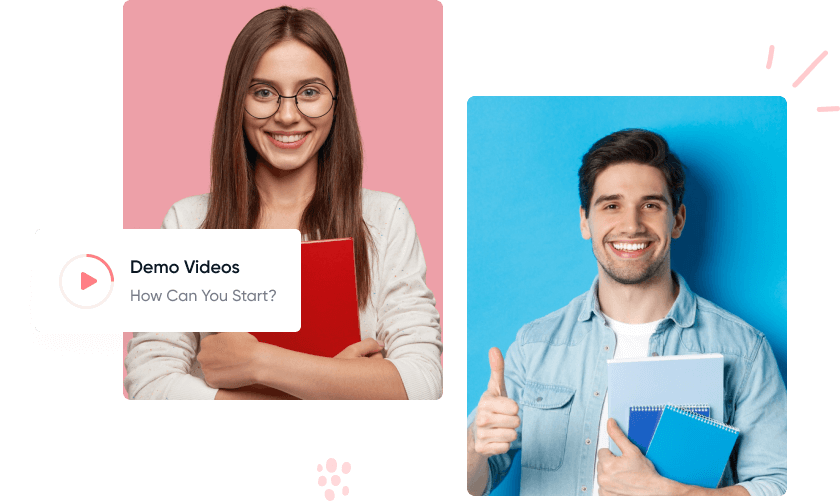
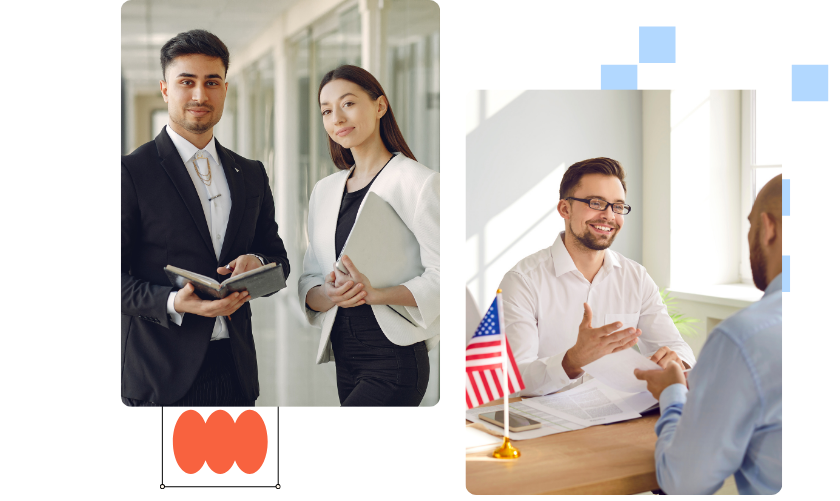
complete

diff --git a/quoc_te_hoc/index.html b/quoc_te_hoc/index.html
@@ -22,7 +22,7 @@
     <link rel="stylesheet" href="assets/css/responsive.css">
     <link rel="stylesheet" href="assets/css/aos.css">
 
-    <title>Cử nhân nghành Quốc tế học</title>
+    <title>Cử nhân ngành Quốc tế học</title>
     <link rel="icon" type="image/png" href="assets/img/all-img/favicon.png">
 </head>
 
@@ -54,7 +54,7 @@
                         </ul>
                     </div>
                     <div class="nav-btn">
-                        <a href="#" class="default-btn">Đăng ký ngay</a>
+                        <a href="#nhan_tu_van" class="default-btn">Đăng ký ngay</a>
                     </div>
                 </nav>
             </div>
@@ -74,7 +74,7 @@
                             duy phát hiện vấn đề; </p>
                         <div>
                             <ul>
-                                <li>Mã nghành: 7310601</li>
+                                <li>Mã ngành: 7310601</li>
                                 <li>Mã trường: DTQ</li>
                                 <li>Tổ hợp xét tuyển: A00, A01, D10, D01</li>
                                 <li>Ngôn ngữ giảng dạy: Tiếng Anh, Tiếng Trung, Tiếng Hàn</li>
@@ -93,7 +93,7 @@
                 </div>
                 <div class="col-lg-6 col-md-12" data-aos="fade-left">
                     <div class="edu-banner-image">
-                        <img src="assets/img/banner/man1.png" alt="banner-img">
+                        <img src="assets/img/banner/man4.png" alt="banner-img">
                     </div>
                 </div>
             </div>
@@ -101,12 +101,17 @@
     </div>
     <!-- End EduMim Banner Area -->
     <!-- Start EduMim platfroom Area -->
-    <div class="edu-platfrom-area pt-130" id="vi_tri_viec_lam">
+    <div class="edu-platfrom-area pt-130" id="nhan_tu_van">
         <div class="container">
             <div class="row align-items-center">
+                <div class="col-lg-7 col-md-12 col-sm-12">
+                    <div class="edu-platfrom-image">
+                        <img src="assets/img/all-img/banner2.png" alt="banner-img">
+                    </div>
+                </div>
                 <div class="col-lg-5 col-md-12 col-sm-12">
                     <div class="edu-platfrom-content" data-aos="fade-up" data-aos-anchor-placement="top-center">
-                        <p class="sub-title">Cử nhân nghành Quốc tế Học</p>
+                        <p class="sub-title">Cử nhân ngành Quốc tế Học</p>
                         <h2> <span class="shape02">Nhận tư vấn</span> Ngay </h2>
                         <p>Điền thông tin của bạn vào form dưới đây để nhận được tư vấn:
                         </p>
@@ -131,62 +136,7 @@
                         <!-- <a href="#" class="default-btn">Explore Our Courses</a> -->
                     </div>
                 </div>
-                <div class="col-lg-7 col-md-12 col-sm-12">
-                    <div class="edu-platfrom-image">
-                        <img src="assets/img/all-img/about2.png" alt="banner-img">
-                    </div>
-                </div>
-            </div>
-        </div>
-    </div>
-    <div class="edu-platfrom-area pt-130" id="vi_tri_viec_lam">
-        <div class="container">
-            <div class="row align-items-center">
-                <div class="col-lg-5 col-md-12 col-sm-12">
-                    <div class="edu-platfrom-content" data-aos="fade-up" data-aos-anchor-placement="top-center">
-                        <p class="sub-title">Cử nhân nghành Quốc tế Học</p>
-                        <h2> Vị trí <span class="shape02">Công việc</span> Là gì ? </h2>
-                        <p>Sau khi tốt nghiệp, sinh viên có thể thực hiện các công việc như:
-                        </p>
-                        <div class="platfrom-list">
-                            <div class="items">
-                                <div class="edu-platfrom-img">
-                                    <img src="assets/img/svg/ok.svg" alt="banner-img">
-                                </div>
-                                <div class="platfrom-single-content">
-                                    <h3>Nghiên cứu và giảng dạy về các vấn đề quốc tế tại các trường đại học, các viện
-                                        nghiên cứu;</h3>
-                                </div>
-                            </div>
-                            <div class="items">
-                                <div class="edu-platfrom-img">
-                                    <img src="assets/img/svg/ok.svg" alt="banner-img">
-                                </div>
-                                <div class="platfrom-single-content">
-                                    <h3>Làm công tác đối ngoại tại các cơ quan ngoại giao ở trung ương và địa phương,
-                                        các vụ hợp tác quốc tế thuộc các bộ, ban, ngành, đoàn thể, các cơ quan an ninh,
-                                        quốc phòng, các cơ quan truyền thông, báo chí</h3>
-                                </div>
-                            </div>
-                            <div class="items">
-                                <div class="edu-platfrom-img">
-                                    <img src="assets/img/svg/ok.svg" alt="banner-img">
-                                </div>
-                                <div class="platfrom-single-content">
-                                    <h3>Làm việc trong các cơ quan đại diện của nước ngoài, các tổ chức quốc tế, các tổ
-                                        chức phi chính phủ trong nước và nước ngoài, các các loại hình doanh nghiệp khác
-                                        nhau, đặc biệt là các doanh nghiệp liên doanh.</h3>
-                                </div>
-                            </div>
-                        </div>
-                        <!-- <a href="#" class="default-btn">Explore Our Courses</a> -->
-                    </div>
-                </div>
-                <div class="col-lg-7 col-md-12 col-sm-12">
-                    <div class="edu-platfrom-image">
-                        <img src="assets/img/all-img/about2.png" alt="banner-img">
-                    </div>
-                </div>
+
             </div>
         </div>
     </div>
@@ -241,6 +191,57 @@
         </div>
     </div>
     <!-- End EduMim Services Area -->
+    <div class="edu-platfrom-area pt-130" id="vi_tri_viec_lam">
+        <div class="container">
+            <div class="row align-items-center">
+                <div class="col-lg-5 col-md-12 col-sm-12">
+                    <div class="edu-platfrom-content" data-aos="fade-up" data-aos-anchor-placement="top-center">
+                        <p class="sub-title">Cử nhân ngành Quốc tế Học</p>
+                        <h2> Vị trí <span class="shape02">Công việc</span> Là gì ? </h2>
+                        <p>Sau khi tốt nghiệp, sinh viên có thể thực hiện các công việc như:
+                        </p>
+                        <div class="platfrom-list">
+                            <div class="items">
+                                <div class="edu-platfrom-img">
+                                    <img src="assets/img/svg/ok.svg" alt="banner-img">
+                                </div>
+                                <div class="platfrom-single-content">
+                                    <h3>Nghiên cứu và giảng dạy về các vấn đề quốc tế tại các trường đại học, các viện
+                                        nghiên cứu;</h3>
+                                </div>
+                            </div>
+                            <div class="items">
+                                <div class="edu-platfrom-img">
+                                    <img src="assets/img/svg/ok.svg" alt="banner-img">
+                                </div>
+                                <div class="platfrom-single-content">
+                                    <h3>Làm công tác đối ngoại tại các cơ quan ngoại giao ở trung ương và địa phương,
+                                        các vụ hợp tác quốc tế thuộc các bộ, ban, ngành, đoàn thể, các cơ quan an ninh,
+                                        quốc phòng, các cơ quan truyền thông, báo chí</h3>
+                                </div>
+                            </div>
+                            <div class="items">
+                                <div class="edu-platfrom-img">
+                                    <img src="assets/img/svg/ok.svg" alt="banner-img">
+                                </div>
+                                <div class="platfrom-single-content">
+                                    <h3>Làm việc trong các cơ quan đại diện của nước ngoài, các tổ chức quốc tế, các tổ
+                                        chức phi chính phủ trong nước và nước ngoài, các các loại hình doanh nghiệp khác
+                                        nhau, đặc biệt là các doanh nghiệp liên doanh.</h3>
+                                </div>
+                            </div>
+                        </div>
+                        <!-- <a href="#" class="default-btn">Explore Our Courses</a> -->
+                    </div>
+                </div>
+                <div class="col-lg-7 col-md-12 col-sm-12">
+                    <div class="edu-platfrom-image">
+                        <img src="assets/img/all-img/about2.png" alt="banner-img">
+                    </div>
+                </div>
+            </div>
+        </div>
+    </div>
     <!-- Start EduMim Topics Area -->
     <div class="edu-topics-area pt-130" id="hoc_phan_chinh">
         <div class="container">
@@ -478,7 +479,7 @@
                 </div>
                 <div class="col-lg-6 col-md-12">
                     <div class="edu-about-image">
-                        <img src="assets/img/all-img/about1.png" alt="banner-img">
+                        <img src="assets/img/all-img/about3.png" alt="banner-img">
                     </div>
                 </div>
             </div>
@@ -487,14 +488,14 @@
             <div class="row align-items-center" data-aos="fade-up" data-aos-anchor-placement="top-center">
                 <div class="col-lg-6 col-md-12">
                     <div class="edu-about-image">
-                        <img src="assets/img/all-img/about1.png" alt="banner-img">
+                        <img src="assets/img/all-img/about4.png" alt="banner-img">
                     </div>
                 </div>
                 <div class="col-lg-6 col-md-12">
                     <div class="edu-about-content">
                         <p class="sub-title">Cử nhân Quốc tế học</p>
                         <h2> <span class="shape02">Nhu cầu xã hội</span></h2>
-                        <p>Nhu cầu xã hội hiện nay: Nhu cầu xã hội về đào tạo ngành Quốc tế học khá cao, những trường
+                        <p>Nhu cầu xã hội về đào tạo ngành Quốc tế học khá cao, những trường
                             đại học có đào tạo ngành Quốc tế học đều tuyển sinh khá thuận lợi. Ngoài ra, nhu cầu nguồn
                             nhân lực đối với chuyên ngành này khá lớn, do rất nhiều tập đoàn, công ty của hàng trăm quốc
                             gia trên thế giới đang đầu tư, kinh doanh sản xuất tại Việt Nam. Vì thế, rất cần một số
@@ -537,31 +538,31 @@
 
                 <div class="edu-testimonial-navigator-item ">
                     <div class="edu-testimonial-image">
-                        <img src="assets/img/all-img/t1.png" alt="image">
+                        <img src="assets/img/all-img/sv1.jpg" alt="image">
                     </div>
                     <div class="edu-testimonial-nav-content">
-                        <p class="sub-title">Cử nhân nghành Quốc tế học</p>
+                        <p class="sub-title">Cử nhân ngành Quốc tế học</p>
 
-                        <h3>“It’s Truly The Best Solution For Me”</h3>
-                        <p>There are many variations of passages of Lorem Ipsum available, but the majority have
-                            suffered.
+                        <!-- <h3>“It’s Truly The Best Solution For Me”</h3> -->
+                        <p>Chương trình học đa dạng, giúp mình hiểu sâu về quan hệ quốc tế và các vấn đề toàn cầu..
                         </p>
-                        <span class="client-name">Alfred Helmerich</span>
-                        <span class="client-title">Executive Training Manager</span>
+                        <span class="client-name">Nguyễn Thị Lan</span>
+                        <span class="client-title">Sinh viên năm 2</span>
                     </div>
                 </div>
                 <div class="edu-testimonial-navigator-item ">
                     <div class="edu-testimonial-image">
-                        <img src="assets/img/all-img/t1.png" alt="image">
+                        <img src="assets/img/all-img/sv2.jpg" alt="image">
                     </div>
                     <div class="edu-testimonial-nav-content">
-                        <p class="sub-title">Testimonial</p>
-                        <h2>Our Talented Students Valuable <span class="shape02">Feedback</span></h2>
-                        <h3>“Get The Best Advice Form Our Teachers”</h3>
-                        <p>There are many variations of passages of Lorem Ipsum available, but the majority Lorem ipsum
-                            dolor sit amet consectetur adipisicing elit Illum voluptatibus have suffered.</p>
-                        <span class="client-name">Alfred Helmerich</span>
-                        <span class="client-title">Executive Training Manager</span>
+                        <p class="sub-title">Cử nhân ngành Quốc tế học</p>
+
+                        <p>Giảng viên ở đây rất nhiệt tình và có nhiều kinh nghiệm thực tế. Thầy cô không chỉ dạy lý
+                            thuyết mà còn chia sẻ những câu
+                            chuyện và kinh nghiệm quý báu từ thực tiễn. Điều này giúp mình có thêm động lực và cảm hứng
+                            trong học tập</p>
+                        <span class="client-name">Phạm Minh Tuấn</span>
+                        <span class="client-title">Sinh viên năm nhất</span>
                     </div>
                 </div>
             </div>
